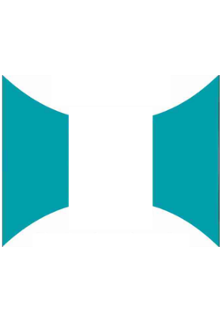
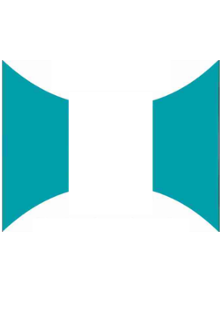
sadded cron

diff --git a/cardsTest.php b/cardsTest.php
@@ -24,7 +24,7 @@ function getIcard($logo, $photo, $name, $service, $id, $office, $emg, $locAdd, $
         <img src="http://api.file-dog.shatkonlabs.com/files/rahul/'.
 
     $logo.'"
-             style="margin-top:0.1in;max-width: 2in;height: 0.8in;"/>
+             style="margin-top:0.1in;max-width: 2in;height: 0.6in;"/>
 
         <div  style="height: 1.2in;width: 2.3in;background-color:#2aafc3 ;">
 
